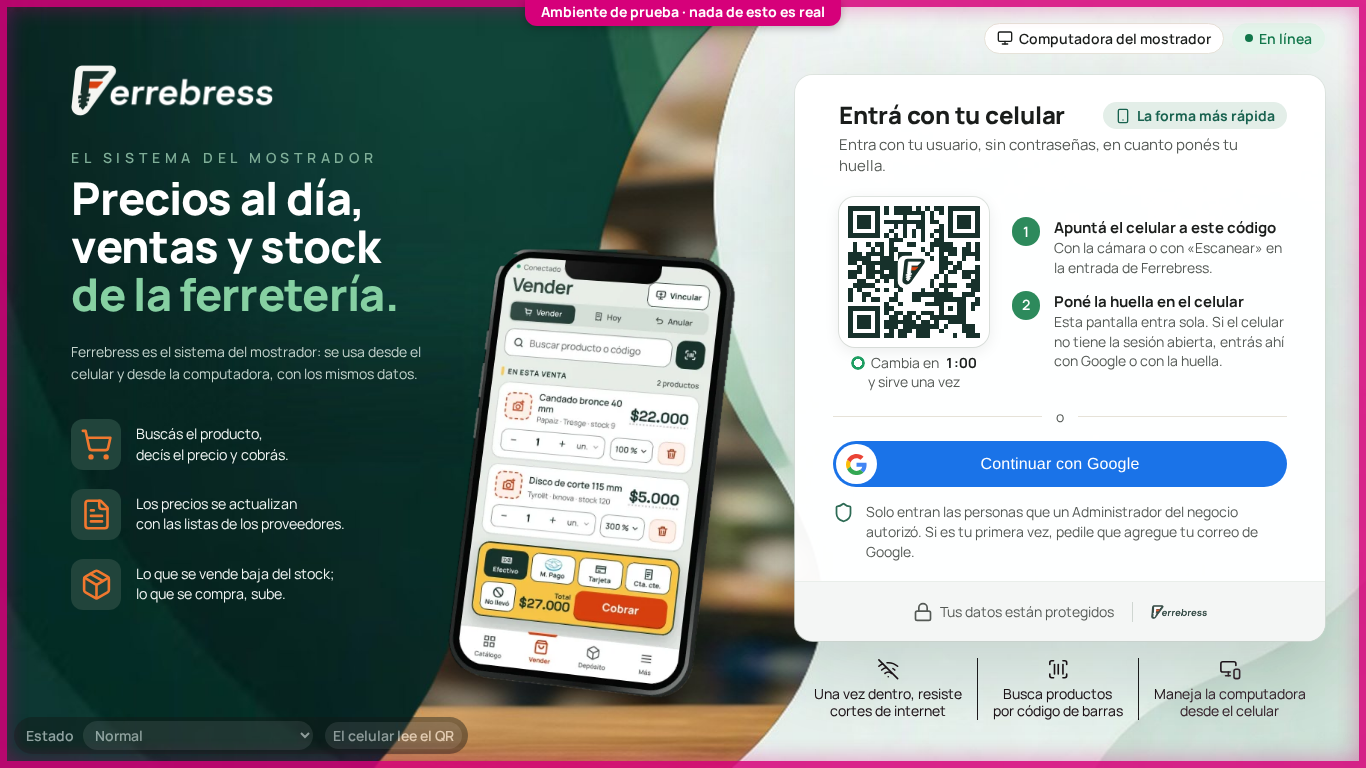
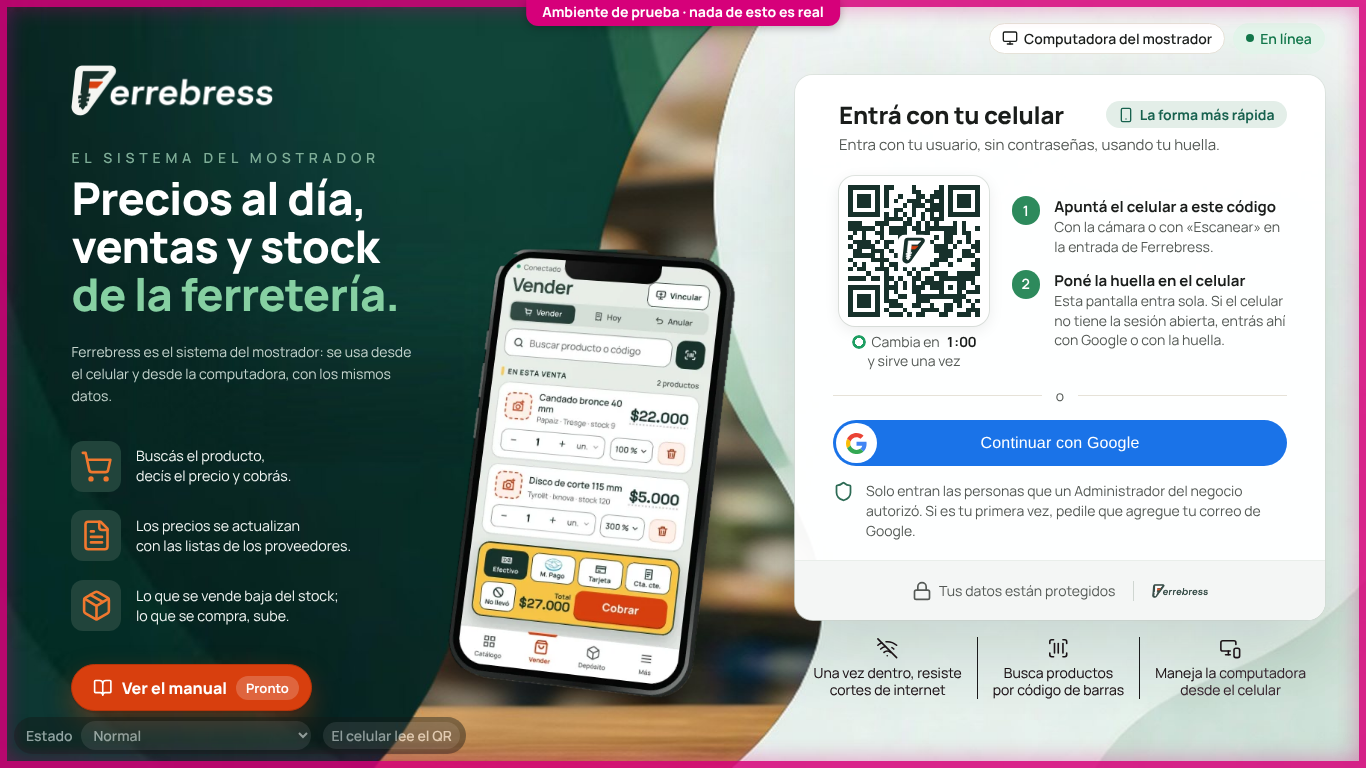
Maqueta de la entrada con «Ver el manual», para aprobar
Carlos pidió el botón del manual en la entrada de la computadora y que esté
desde ya, con «Pronto» mientras el manual no exista: cambia R7.2 y E39.

Claude-Session: https://claude.ai/code/session_01BmbhiYJAfQvWshUgYzn7JL

diff --git a/docs/design/mockups/sign-in/adapted/sign-in.css b/docs/design/mockups/sign-in/adapted/sign-in.css
@@ -209,6 +209,13 @@ body[data-state="intentos"] #notice { display: flex; }
   .brand-points { list-style: none; display: flex; flex-direction: column; gap: calc(25 * var(--u)); }
   .brand-points li { display: flex; align-items: center; gap: calc(20 * var(--u)); font-size: max(14px, calc(19 * var(--u))); line-height: 1.42; color: #f2f6f4; }
   .brand-points li > span:first-child { flex: none; display: grid; place-items: center; width: calc(66 * var(--u)); height: calc(68 * var(--u)); border-radius: 12px; background: #21443b; color: #f0782f; }
+  /* «Ver el manual»: la pastilla naranja debajo de los puntos, con «Pronto» mientras no exista. */
+  .manual { display: inline-flex; align-items: center; gap: calc(12 * var(--u)); margin-top: calc(44 * var(--u)); padding: calc(14 * var(--u)) calc(16 * var(--u)) calc(14 * var(--u)) calc(28 * var(--u)); border: 1px solid var(--naranja-fuerte); border-radius: 999px; background: var(--naranja); color: #fff; font: inherit; font-size: max(16px, calc(20 * var(--u))); font-weight: 800; white-space: nowrap; cursor: pointer; box-shadow: 0 12px 28px rgb(217 64 15 / 0.38), 0 2px 0 rgb(0 0 0 / 0.12); transition: transform 120ms ease-out; }
+  .manual:hover { transform: translateY(-1px); }
+  .manual .i { width: calc(26 * var(--u)); height: calc(26 * var(--u)); }
+  .manual-soon { padding: 3px 10px; border-radius: 999px; background: rgb(255 255 255 / 0.2); font-size: 13px; font-weight: 700; }
+  .manual kbd { background: rgb(255 255 255 / 0.18); border-color: rgb(255 255 255 / 0.4); color: #fff; }
+  .show-keys .manual .manual-soon { display: none; }
   .brand-points li > span:first-child svg { width: calc(44 * var(--u)); height: calc(44 * var(--u)); stroke-width: 1.9; }
 
   .phone-shot { position: absolute; left: calc(524 / 1600 * 100%); top: calc(330 / 1024 * 100%); height: calc(600 / 1024 * 100%); width: auto; aspect-ratio: 387 / 603; pointer-events: none; z-index: 2; }
@@ -353,3 +360,6 @@ body[data-state="intentos"] #notice { display: flex; }
   .mock-tools label { font-size: 0; }
   .mock-tools select { max-width: 150px; font-size: 14px; }
 }
+
+/* El aviso de una opción que todavía no existe, abajo al centro, como en el marco. */
+.soon-toast { position: fixed; left: 50%; bottom: 28px; z-index: 800; transform: translateX(-50%); padding: 12px 20px; border-radius: 12px; background: var(--verde); color: #fff; font-weight: 700; box-shadow: 0 12px 30px rgb(0 0 0 / 0.25); }

diff --git a/docs/design/mockups/sign-in/adapted/index.html b/docs/design/mockups/sign-in/adapted/index.html
@@ -38,6 +38,10 @@
         <li><span><i class="i" data-i="file-text"></i></span><span>Los precios se actualizan<br>con las listas de los proveedores.</span></li>
         <li><span><i class="i" data-i="package"></i></span><span>Lo que se vende baja del stock;<br>lo que se compra, sube.</span></li>
       </ul>
+      <!-- «Ver el manual» (R7.2): mientras el manual no exista, lleva «Pronto» y dice que todavía no está. -->
+      <button type="button" class="manual d-only" id="manual" data-mark data-key="m">
+        <i class="i" data-i="book-open"></i>Ver el manual<span class="manual-soon">Pronto</span><kbd>M</kbd>
+      </button>
     </section>
 
     <img class="phone-shot d-only" src="phone-selling.webp" alt="" aria-hidden="true">
@@ -134,6 +138,9 @@
     </footer>
   </div>
 </main>
+
+<!-- Lo que dice una opción que todavía no existe (como en el marco). -->
+<p class="soon-toast" id="soon-toast" role="status" hidden>Manual · pronto. Todavía no está.</p>
 
 <!-- ============ Lo que se abre encima ============ -->
 <div class="scrim" id="scrim" hidden></div>

diff --git a/docs/design/mockups/sign-in/adapted/sign-in.js b/docs/design/mockups/sign-in/adapted/sign-in.js
@@ -246,6 +246,15 @@
     }, wait(1800));
   });
 
+  // ---------- «Ver el manual»: todavía no existe (R7.2) ----------
+  var soonTimer = null;
+  $("#manual").addEventListener("click", function () {
+    var t = $("#soon-toast");
+    t.hidden = false;
+    clearTimeout(soonTimer);
+    soonTimer = setTimeout(function () { t.hidden = true; }, wait(2400));
+  });
+
   // ---------- Simular que el celular lee el QR (computadora) ----------
   $("#sim-read").addEventListener("click", function () {
     var st = document.body.dataset.state;

diff --git a/docs/chapters/01-sign-in/rules.md b/docs/chapters/01-sign-in/rules.md
@@ -133,7 +133,9 @@ enviar es «Salir» (R5.2).
 
 - **R7.1** Se ve como su maqueta aprobada (`docs/design/mockups/sign-in/adapted/`), en una sola
   pantalla que se adapta al ancho. En el celular también está «Entrar con Google».
-- **R7.2** «Ver el manual» aparece recién cuando exista el manual.
+- **R7.2** La entrada de la computadora tiene «Ver el manual», debajo de lo que hace Ferrebress (en
+  el celular, el manual se abre desde Más). Mientras el manual no exista, lleva «Pronto» y al
+  tocarlo dice «Manual · pronto. Todavía no está.».
 
 ## Escenarios
 
@@ -255,8 +257,8 @@ enviar es «Salir» (R5.2).
 
 - **E38** **Dado** la entrada, **cuando** se abre en la computadora y en el celular, **entonces** se ve
   como su maqueta aprobada, con «Entrar con Google» en los dos.
-- **E39** **Dado** que todavía no existe el manual, **cuando** se mira la entrada, **entonces** no hay
-  «Ver el manual».
+- **E39** **Dado** que todavía no existe el manual, **cuando** se toca «Ver el manual» en la entrada
+  de la computadora, **entonces** dice que todavía no está; el botón lleva «Pronto».
 
 ### Seguridad
 

diff --git a/docs/design/mockups/sign-in/adapted/changes.md b/docs/design/mockups/sign-in/adapted/changes.md
@@ -32,6 +32,10 @@ la computadora: `screenshot-phone-qr-ask.png` y `screenshot-phone-other-network.
   pasos: el ya hecho («Cuenta de Google verificada», «Huella confirmada»…) y «Abriendo tu sesión».
   Solo giran el anillo y la marca del paso en curso (`transform`); con «reducir movimiento», nada
   gira. Se ve con los estados «Entrando con…» del selector.
+- **«Ver el manual» en la computadora (R7.2):** una pastilla naranja debajo de los tres puntos de
+  la marca, como el «Ver tutorial» de la primera versión, con el ícono del libro de Más → Manual.
+  Mientras el manual no exista lleva «Pronto», y al tocarlo dice «Manual · pronto. Todavía no
+  está.». Atajo: Alt M. En el celular no está: el manual se abre desde Más.
 - **Solo el código QR de Ferrebress (R2.6):** sin el estado «Con Bluetooth» ni la ventana del
   navegador que pedía el celular cercano.
 
